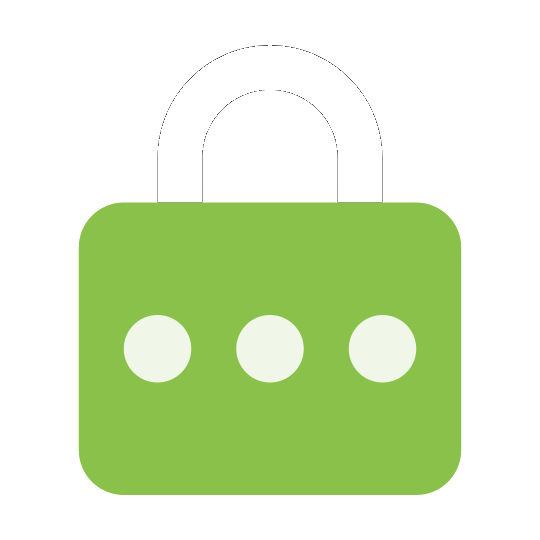
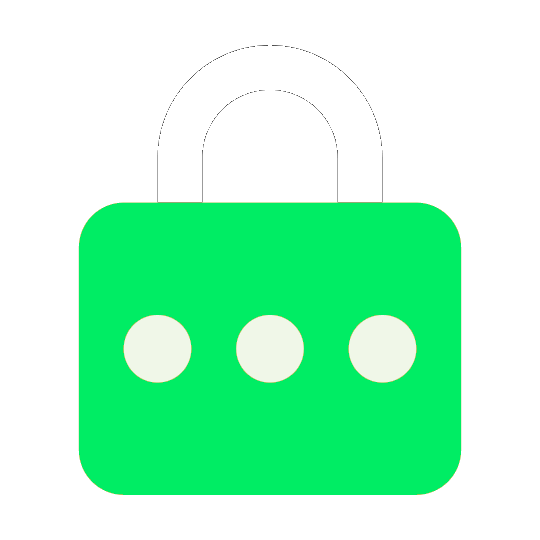
fixed some ui and responsiveness

diff --git a/src/components/Manager.jsx b/src/components/Manager.jsx
@@ -20,7 +20,7 @@ const Manager = () => {
   }, []);
 
   const copyText = (text) => {
-    toast(text + " copied to clipboard", {
+    toast("Copied to clipboard", {
       position: "top-right",
       autoClose: 3000,
       hideProgressBar: false,
@@ -118,15 +118,14 @@ const Manager = () => {
       />
       {/* Same as */}
       <ToastContainer />
-      <div class="absolute inset-0 -z-10 h-full w-full bg-white [background:radial-gradient(125%_125%_at_50%_10%,#fff_40%,#0f0_100%)]"></div>
 
       <div className="md:mycontainer p-3 min-h-[86.5vh]">
         <h1 className="text-4xl font-bold text-center flex items-center justify-center">
-          <span className="text-[#89c04a]">S3CURE</span>
-          <span className="">PASS</span>
+          <span className="text-[#00ed64]">S3CURE</span>
+          <span className="text-white">PASS</span>
           <img src="/secureIcon.png" alt="secureIcon" className="w-12 mx-1" />
         </h1>
-        <p className="text-black text-lg text-center">
+        <p className="text-white text-lg text-center">
           Your Own Password Manager
         </p>
 
@@ -134,7 +133,7 @@ const Manager = () => {
           <input
             value={form.site}
             onChange={handleChange}
-            className="rounded-full border border-[#89c04a] w-full p-4 py-1"
+            className="rounded-full border border-[#00ed64] w-full p-4 py-1"
             type="text"
             placeholder="Enter Website URL"
             name="site"
@@ -144,7 +143,7 @@ const Manager = () => {
             <input
               value={form.username}
               onChange={handleChange}
-              className="rounded-full border border-[#89c04a] w-full p-4 py-1"
+              className="rounded-full border border-[#00ed64] w-full md:w-[60%] p-4 py-1"
               type="text"
               placeholder="Enter Username"
               name="username"
@@ -154,7 +153,7 @@ const Manager = () => {
               <input
                 value={form.password}
                 onChange={handleChange}
-                className="rounded-full border border-[#89c04a] w-full p-4 py-1"
+                className="rounded-full border border-[#00ed64] w-full md:w-[100%] p-5 py-1"
                 type={showPassword ? "text" : "password"}
                 placeholder="Enter Password"
                 name="password"
@@ -165,11 +164,17 @@ const Manager = () => {
                 onClick={togglePasswordVisibility}
               >
                 {showPassword ? (
-                  <span ref={ref} className="material-symbols-outlined p-1">
+                  <span
+                    ref={ref}
+                    className="material-symbols-outlined p-1 text-[#00ed64]"
+                  >
                     visibility
                   </span>
                 ) : (
-                  <span ref={ref} className="material-symbols-outlined p-1">
+                  <span
+                    ref={ref}
+                    className="material-symbols-outlined p-1 text-[#00ed64]"
+                  >
                     visibility_off
                   </span>
                 )}
@@ -179,7 +184,7 @@ const Manager = () => {
 
           <button
             onClick={savePassword}
-            className="flex justify-center items-center bg-green-500 rounded-full px-8 py-2 w-fit hover:bg-green-400 gap-2 border border-green-900"
+            className="flex justify-center items-center bg-[#00ed64] font-bold text-md rounded-full px-8 py-2 w-fit hover:bg-[#00a957] gap-2"
           >
             <lord-icon
               src="https://cdn.lordicon.com/jgnvfzqg.json"
@@ -189,11 +194,15 @@ const Manager = () => {
           </button>
         </div>
         <div className="passwords">
-          <h2 className="font-bold text-2xl py-4">Your Passwords</h2>
-          {passwordArray.length === 0 && <div>No passwords to show</div>}
+          <h2 className="text-white font-bold text-2xl underline py-4">
+            Your Passwords
+          </h2>
+          {passwordArray.length === 0 && (
+            <div className="text-white">No passwords to show.</div>
+          )}
           {passwordArray.length !== 0 && (
             <table className="table-auto w-full overflow-hidden rounded-md mb-10">
-              <thead className="bg-green-800 text-white">
+              <thead className="bg-[#00684a] text-white">
                 <tr>
                   <th className="py-2">Site</th>
                   <th className="py-2">Username</th>
@@ -204,9 +213,13 @@ const Manager = () => {
               <tbody className="bg-green-100">
                 {passwordArray.map((item, index) => (
                   <tr key={index}>
-                    <td className="py-2 text-center border border-white">
+                    <td className="py-2 text-center border border-white overflow-x-auto max-w-xs">
                       <div className="flex items-center justify-center">
-                        <a href={item.site} target="_blank">
+                        <a
+                          href={item.site}
+                          target="_blank"
+                          rel="noopener noreferrer"
+                        >
                           {item.site}
                         </a>
                         <span
@@ -217,9 +230,13 @@ const Manager = () => {
                         </span>
                       </div>
                     </td>
-                    <td className="py-2 text-center w-32 border border-white">
+                    <td className="py-2 text-center w-32 border border-white overflow-x-auto max-w-xs">
                       <div className="flex items-center justify-center">
-                        <a href={item.username} target="_blank">
+                        <a
+                          href={item.username}
+                          target="_blank"
+                          rel="noopener noreferrer"
+                        >
                           {item.username}
                         </a>
                         <span
@@ -230,11 +247,9 @@ const Manager = () => {
                         </span>
                       </div>
                     </td>
-                    <td className="py-2 text-center w-32 border border-white">
+                    <td className="py-2 text-center w-32 border border-white overflow-x-auto max-w-xs">
                       <div className="flex items-center justify-center">
-                        <a href={item.password} target="_blank">
-                          {"*".repeat(item.password.length)}
-                        </a>
+                        <span>***********</span> 
                         <span
                           className="copyBtn material-symbols-outlined cursor-pointer ml-2"
                           onClick={() => copyText(item.password)}
@@ -243,20 +258,22 @@ const Manager = () => {
                         </span>
                       </div>
                     </td>
-                    <td className="py-2 text-center w-32 border border-white">
+                    <td className="py-2 text-center w-32 border border-white overflow-x-auto max-w-xs">
                       <span
-                        class="cursor-pointer mx-2 material-symbols-outlined"
+                        className="cursor-pointer mx-2 material-symbols-outlined"
                         onClick={() => {
                           editPassword(item.id);
                         }}
+                        aria-label="Edit password"
                       >
                         border_color
                       </span>
                       <span
-                        class="cursor-pointer mx-2 material-symbols-outlined"
+                        className="cursor-pointer mx-2 material-symbols-outlined"
                         onClick={() => {
                           deletePassword(item.id);
                         }}
+                        aria-label="Delete password"
                       >
                         delete
                       </span>

diff --git a/src/components/Footer.jsx b/src/components/Footer.jsx
@@ -2,9 +2,9 @@ import React from "react";
 
 const Footer = () => {
   return (
-    <div className="bg-slate-800 text-white flex flex-col justify-center items-center w-full">
+    <div className="bg-[#001e2b] text-white flex flex-col justify-center items-center w-full">
       <div className="logo font-bold text-2xl flex flex-row items-center">
-        <span className="text-[#89c04a]">S3CURE</span>
+        <span className="text-[#00ed64]">S3CURE</span>
         <span className="">PASS </span>
         <img src="/secureIcon.png" alt="secureIcon" className="w-7 mx-1" />
       </div>

diff --git a/src/components/Navbar.jsx b/src/components/Navbar.jsx
@@ -2,10 +2,10 @@ import React from "react";
 
 const Navbar = () => {
   return (
-    <nav className=" bg-slate-800 text-white ">
+    <nav className=" bg-[#001e2b] text-white ">
       <div className="mycontainer flex items-center px-4 py-5 justify-between">
         <div className="logo font-bold text-2xl flex flex-row items-center">
-          <span className="text-[#89c04a]">S3CURE</span>
+          <span className="text-[#00ed64]">S3CURE</span>
           <span className="">PASS </span>
           <img
             src="/secureIcon.png"

diff --git a/src/App.jsx b/src/App.jsx
@@ -8,9 +8,11 @@ function App() {
   return (
     <>
       <Navbar />
-      <div className="bg-white [background:radial-gradient(125%_125%_at_50%_10%,#fff_40%,#0f0_100%)]">
+      <div class="bg-gradient-to-t from-gray-900 to-gray-600">
         <Manager />
+
       </div>
+
 
       <Footer />
     </>
